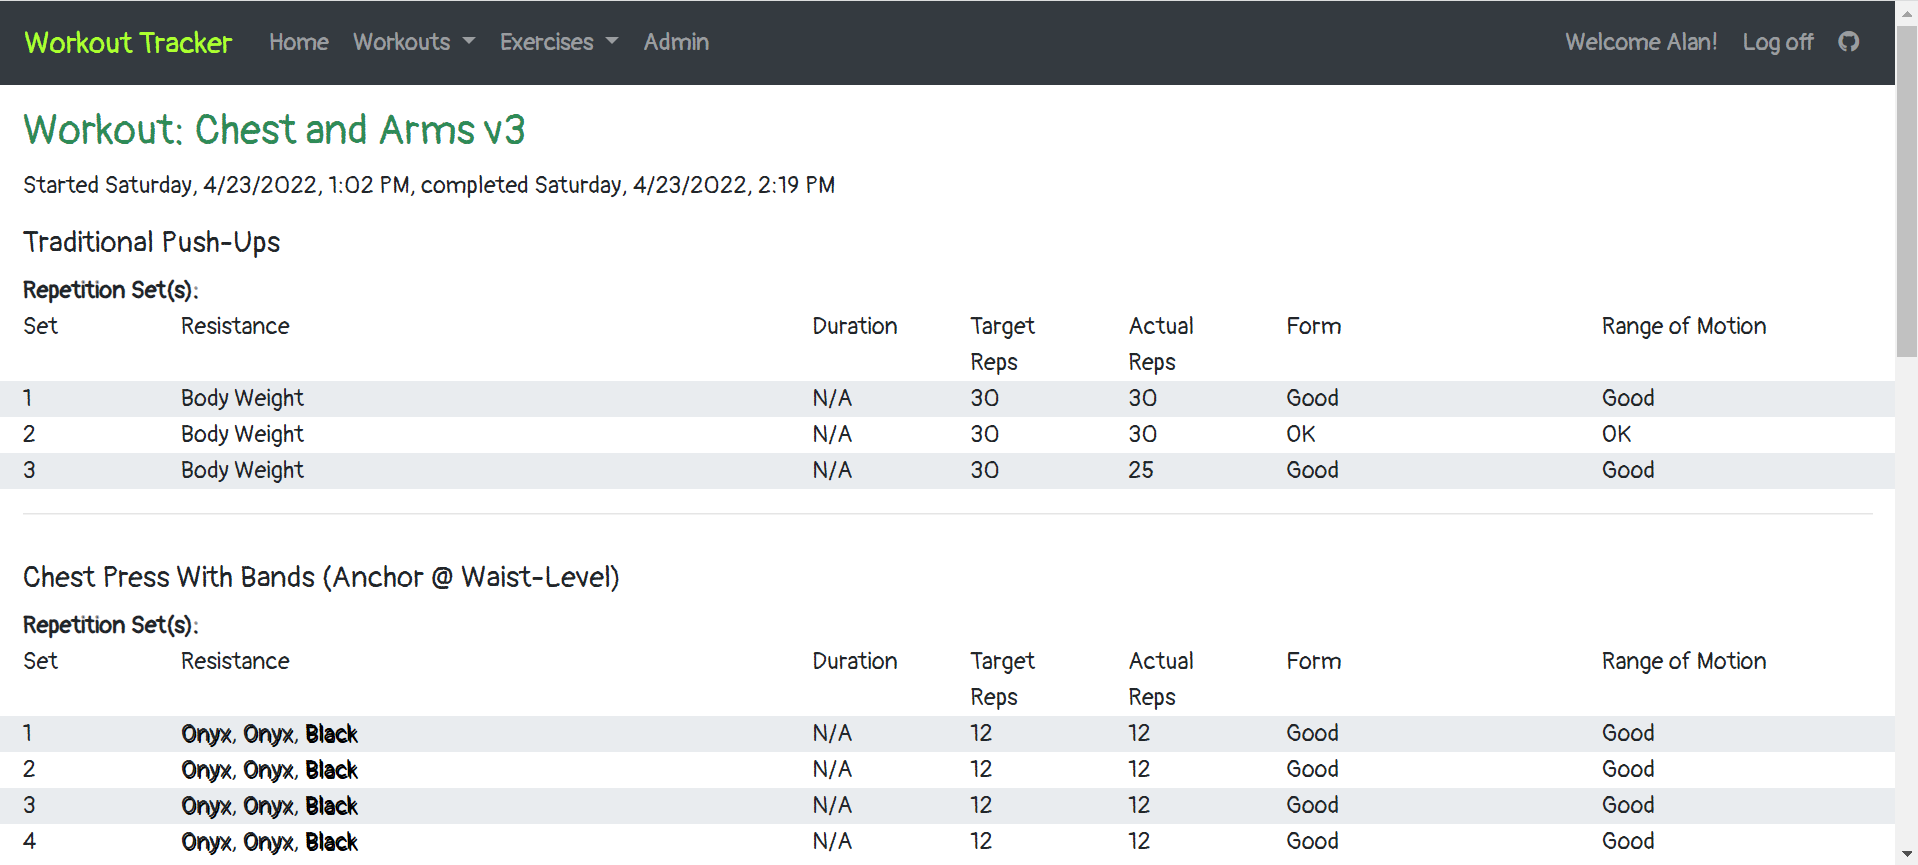
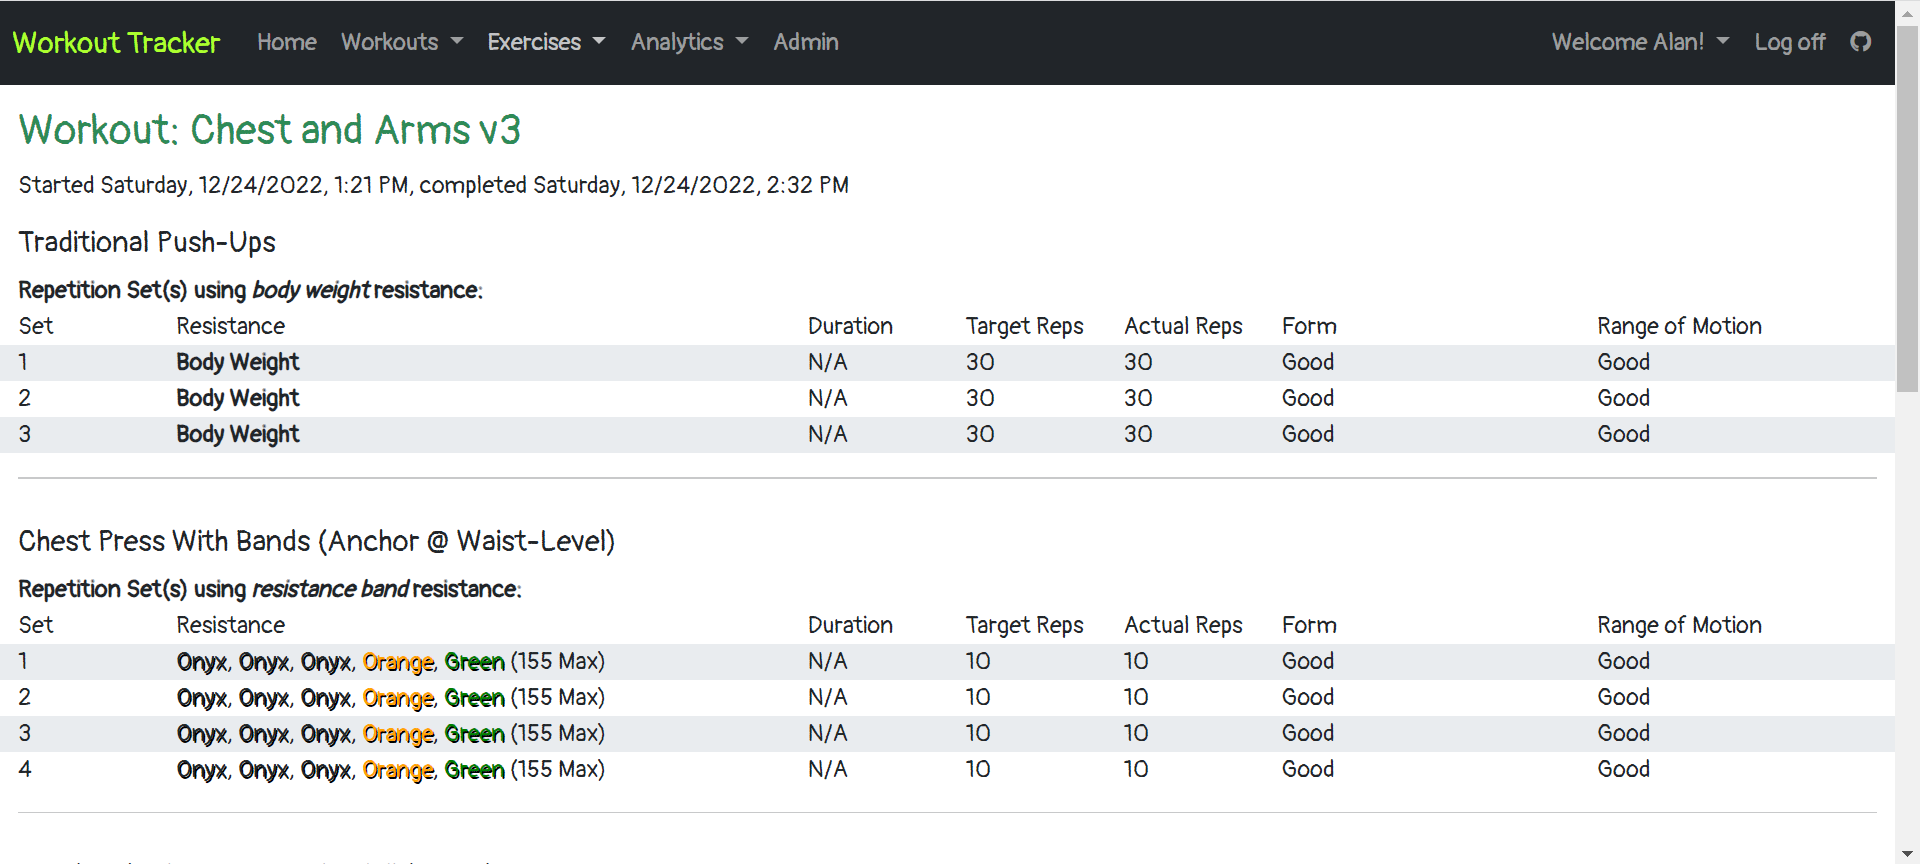
Implemented ResistanceBandAmountPipe. Minor UI edits. New preview images.

diff --git a/WorkoutTracker.UI/workout-tracker/src/app/workouts/workout-exercise/workout-exercise.component.html b/WorkoutTracker.UI/workout-tracker/src/app/workouts/workout-exercise/workout-exercise.component.html
@@ -1,7 +1,5 @@
 <div [formGroup]="formGroup" class="row">
     <div class="col-md-12">
-        <!--TODO: Re-evaluate this approach. A FormGroup is used as an @Input on this component to allow for a structured, easy way to pass in the info...but the end result may be overkill.-->
-        <!--<textarea formControlName="exerciseName" [readonly]="true" class="form-control-plaintext exerciseName" required></textarea>-->
         <strong>{{formGroup.controls.exerciseName.value}}</strong>
     </div>
 </div>
@@ -57,8 +55,11 @@
                         <input *ngIf="formGroup.controls.resistanceType.value < 2 || formGroup.controls.resistanceType.value==4" type="number" class="form-control resistance-amount" formControlName="resistance" required />
                         <span *ngIf="formGroup?.controls?.resistanceType?.value==3"><strong>Body Weight</strong></span>
                         <span *ngIf="formGroup?.controls?.resistanceType?.value==2">
-                            <button class="btn btn-sm btn-primary mild-margins" (click)="selectResistanceBands(setsArray!.controls[i])">Set</button>                            
-                            <span *ngIf="exerciseSet.controls.resistanceMakeup.value" [innerHTML]="exerciseSet.controls.resistanceMakeup.value | resistanceBandColor"> (Max {{exerciseSet.controls.resistance.value}})</span>
+                            <button class="btn btn-sm btn-primary mild-margins" (click)="selectResistanceBands(setsArray!.controls[i])">Edit</button>                            
+                            <span *ngIf="exerciseSet.controls.resistanceMakeup.value">
+                              <span [innerHTML]="exerciseSet.controls.resistanceMakeup.value | resistanceBandColor"></span>
+                              <span> ({{exerciseSet.controls.resistanceMakeup.value | resistanceBandAmount}})</span>
+                            </span> 
                             <span *ngIf="!exerciseSet.controls.resistanceMakeup.value">Not set</span>
                         </span>
                     </div>
@@ -69,7 +70,6 @@
                         <button class="btn btn-sm btn-primary duration-button" *ngIf="formGroup.controls.setType.value==1" (click)="editDuration(exerciseSet.controls.duration)">
                           {{exerciseSet.controls.duration.value | duration:true}}
                         </button>
-                        <!--<input *ngIf="formGroup?.controls?.setType?.value==1" type="text" class="form-control" formControlName="duration" required />-->
                     </div>
                     
                     <!--Target Reps-->

diff --git a/WorkoutTracker.UI/workout-tracker/src/app/workouts/executed-exercises/executed-exercises.component.html b/WorkoutTracker.UI/workout-tracker/src/app/workouts/executed-exercises/executed-exercises.component.html
@@ -46,7 +46,10 @@
         <!--TODO: Create a pipe for this-->
       <span *ngIf="exercise.exercise.resistanceType < 2"><strong>{{exercise.resistanceAmount}}</strong></span>
       <span *ngIf="exercise.exercise.resistanceType == 3"><strong>Body Weight</strong></span>
-      <span *ngIf="exercise.exercise.resistanceType == 2 && exercise.resistanceMakeup != null" [innerHTML]="exercise.resistanceMakeup | resistanceBandColor"></span>
+      <span *ngIf="exercise.exercise.resistanceType == 2 && exercise.resistanceMakeup != null">
+        <span [innerHTML]="exercise.resistanceMakeup | resistanceBandColor"></span>
+        <span> ({{exercise.resistanceMakeup | resistanceBandAmount}})</span>
+      </span>
       <span *ngIf="exercise.exercise.resistanceType == 4"><strong>Other - {{exercise.resistanceAmount}}</strong></span>
     </div>
 

diff --git a/WorkoutTracker.UI/workout-tracker/src/app/workouts/workout-view/workout-view.component.html b/WorkoutTracker.UI/workout-tracker/src/app/workouts/workout-view/workout-view.component.html
@@ -30,7 +30,7 @@
     <div *ngIf="executedWorkout.startDateTime != null" class="row headroom">
       <div class="col-12">
         <strong>Notes/Journal</strong><br />
-        {{executedWorkout.journal}}
+        {{executedWorkout.journal ? executedWorkout.journal : 'None'}}
       </div>
     </div>
 

diff --git a/WorkoutTracker.UI/workout-tracker/src/app/workouts/pipes/resistance-band-amount.pipe.spec.ts b/WorkoutTracker.UI/workout-tracker/src/app/workouts/pipes/resistance-band-amount.pipe.spec.ts
@@ -22,7 +22,7 @@ class MockResistanceBandService {
 
 }
 
-fdescribe('ResistanceBandAmountPipe', () => {
+describe('ResistanceBandAmountPipe', () => {
 
   let pipe: ResistanceBandAmountPipe;
 

diff --git a/README.md b/README.md
@@ -22,3 +22,7 @@ A website for creating and tracking workouts. I wrote this to replicate and expa
 ![Exercise Edit](PreviewImages/exercise-edit.png)<br /><br />
 
 ![Resistance Band Management](PreviewImages/resistance-band-inventory.png)<br /><br />
+
+![Analytics Dashboard](PreviewImages/analytics.png)<br /><br />
+
+![Workout Progress](PreviewImages/workout-progress.png)<br /><br />
